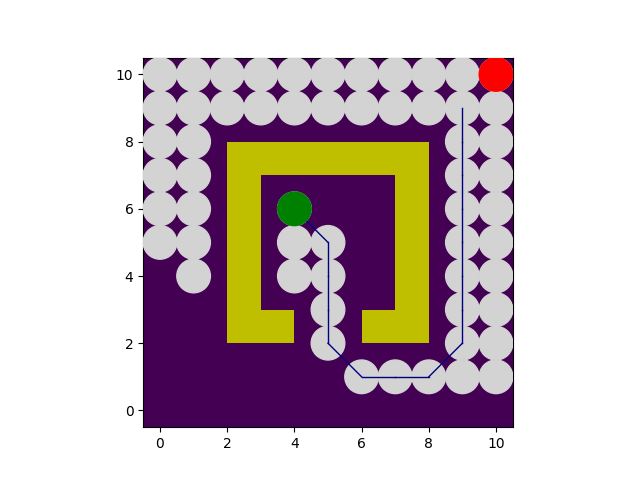
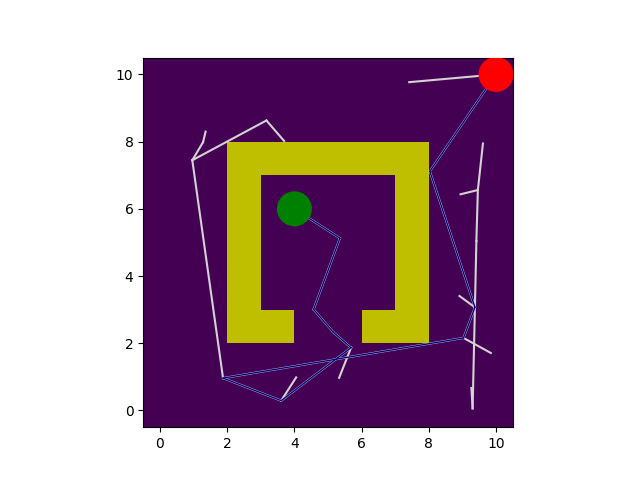
completed rrt*

Changed region(s): [[0.2188, 0.0938, 0.8125, 0.8438]]

diff --git a/RRTStarPlanner.py b/RRTStarPlanner.py
@@ -14,6 +14,14 @@ class RRTStarPlanner(object):
         self.ext_mode = ext_mode
         self.goal_prob = goal_prob
         self.k = k
+        
+    def rewire_rrt_star(self, potential_parent_idx, child_idx):
+        child, potential_parent = self.tree.vertices[child_idx], self.tree.vertices[potential_parent_idx]
+        if self.planning_env.edge_validity_checker( potential_parent.state, child.state):
+            edge_cost = self.planning_env.compute_distance( potential_parent.state, child.state)
+            if (potential_parent.cost + edge_cost) < child.cost:
+                self.tree.add_edge(potential_parent_idx, child_idx, potential_parent.cost + edge_cost)
+
 
     def plan(self):
         '''
@@ -25,8 +33,36 @@ class RRTStarPlanner(object):
         plan = []
 
         # TODO: Task 4.4
+        self.tree.add_vertex(self.planning_env.start)
+        while not self.tree.is_goal_exists(self.planning_env.goal):
+            goal_bias = np.random.random()
+            x_limit, y_limit = self.planning_env.xlimit, self.planning_env.ylimit
+            if goal_bias < self.goal_prob: # correct way??
+                random_state = np.array([np.random.uniform(x_limit[0], x_limit[1]), np.random.uniform(y_limit[0], y_limit[1])])
+            else:
+                random_state = self.planning_env.goal
+            nearest_state_idx, nearest_state = self.tree.get_nearest_state(random_state)
+            new_state = self.extend(nearest_state, random_state)
+            if self.planning_env.state_validity_checker(new_state) and self.planning_env.edge_validity_checker(nearest_state, new_state):
+                self.tree.add_vertex(new_state)
+                self.tree.add_edge(nearest_state_idx, self.tree.get_idx_for_state(new_state), self.planning_env.compute_distance(nearest_state, new_state))
+                new_state_idx = self.tree.get_idx_for_state(new_state)
+                k_nearest_idxs, k_nearest_states = self.tree.get_k_nearest_neighbors(new_state, self.k)
+                for idx in k_nearest_idxs:
+                    self.rewire_rrt_star(idx, new_state_idx)
+                for idx in k_nearest_idxs:
+                    self.rewire_rrt_star(new_state_idx, idx)
         
         # print total path cost and time
+        plan.append(self.planning_env.goal)
+        curr_idx = self.tree.get_idx_for_state(self.planning_env.goal)
+        start_idx = self.tree.get_idx_for_state(self.planning_env.start)
+        while curr_idx != start_idx:
+            curr_idx = self.tree.edges[curr_idx]
+            next_state = self.tree.vertices[curr_idx].state
+            plan.append(next_state)
+        plan.reverse()
+        
         print('Total cost of path: {:.2f}'.format(self.compute_cost(plan)))
         print('Total time: {:.2f}'.format(time.time()-start_time))
 
@@ -38,8 +74,10 @@ class RRTStarPlanner(object):
         @param plan A given plan for the robot.
         '''
         # TODO: Task 4.4
-
-        pass
+        cost = 0
+        for i in range(1, len(plan)):
+            cost += self.planning_env.compute_distance(plan[i-1],plan[i])
+        return cost
 
     def extend(self, near_state, rand_state):
         '''
@@ -48,6 +86,11 @@ class RRTStarPlanner(object):
         @param rand_state The sampled position.
         '''
         # TODO: Task 4.4
-
-        pass
+        n = 0.2 # a changeable parameter
+        if self.ext_mode == "E1":
+            return rand_state
+        dist = self.planning_env.compute_distance(near_state, rand_state)
+        direction = (rand_state - near_state) / dist
+        new_state = rand_state + (n * dist * direction)
+        return new_state
     
